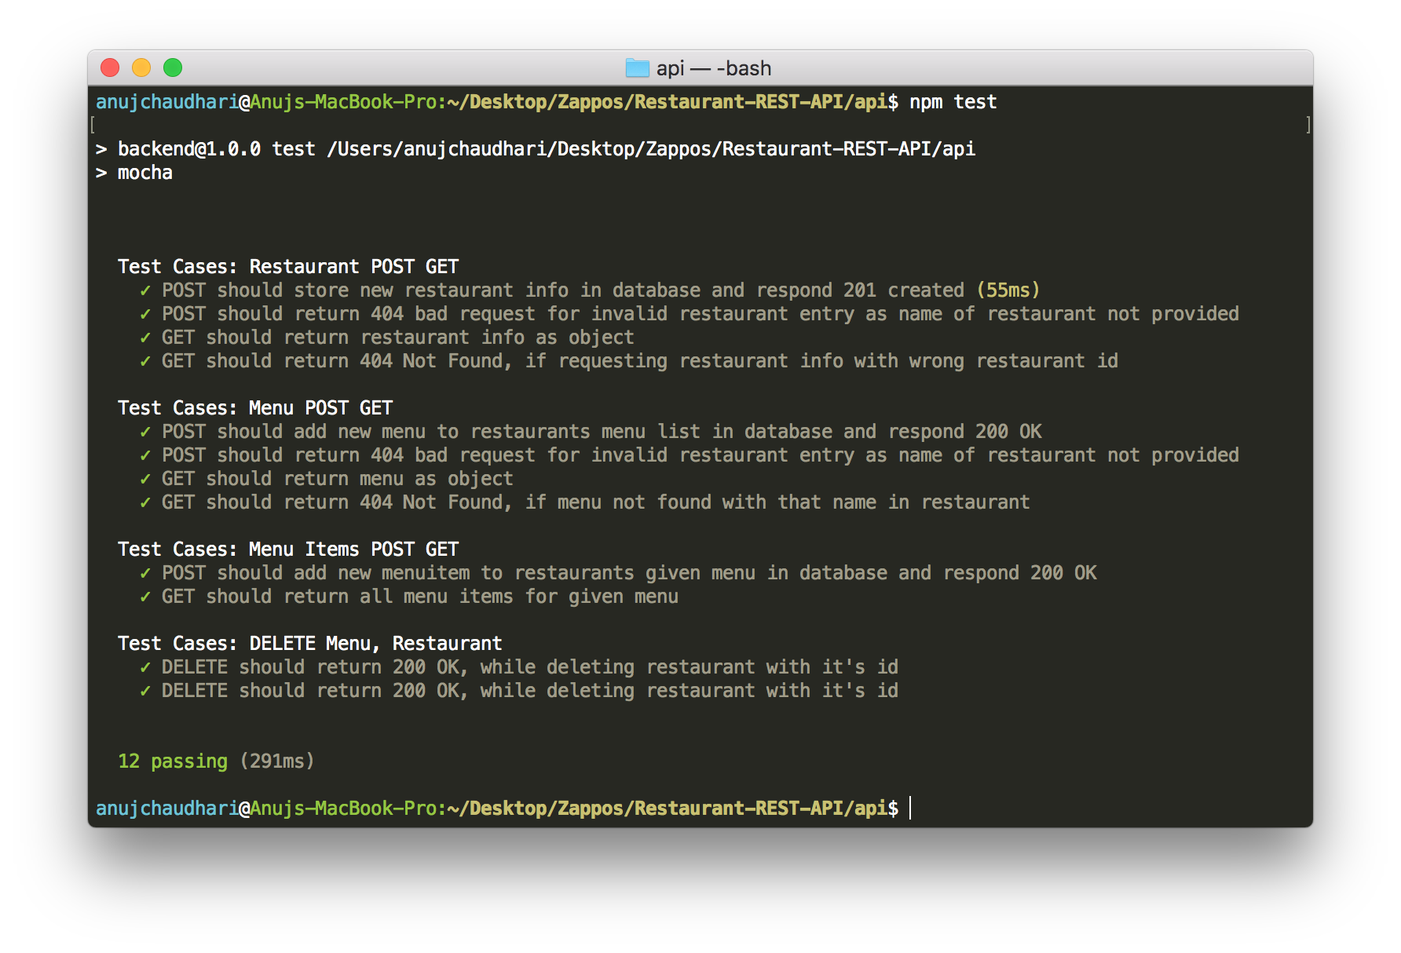
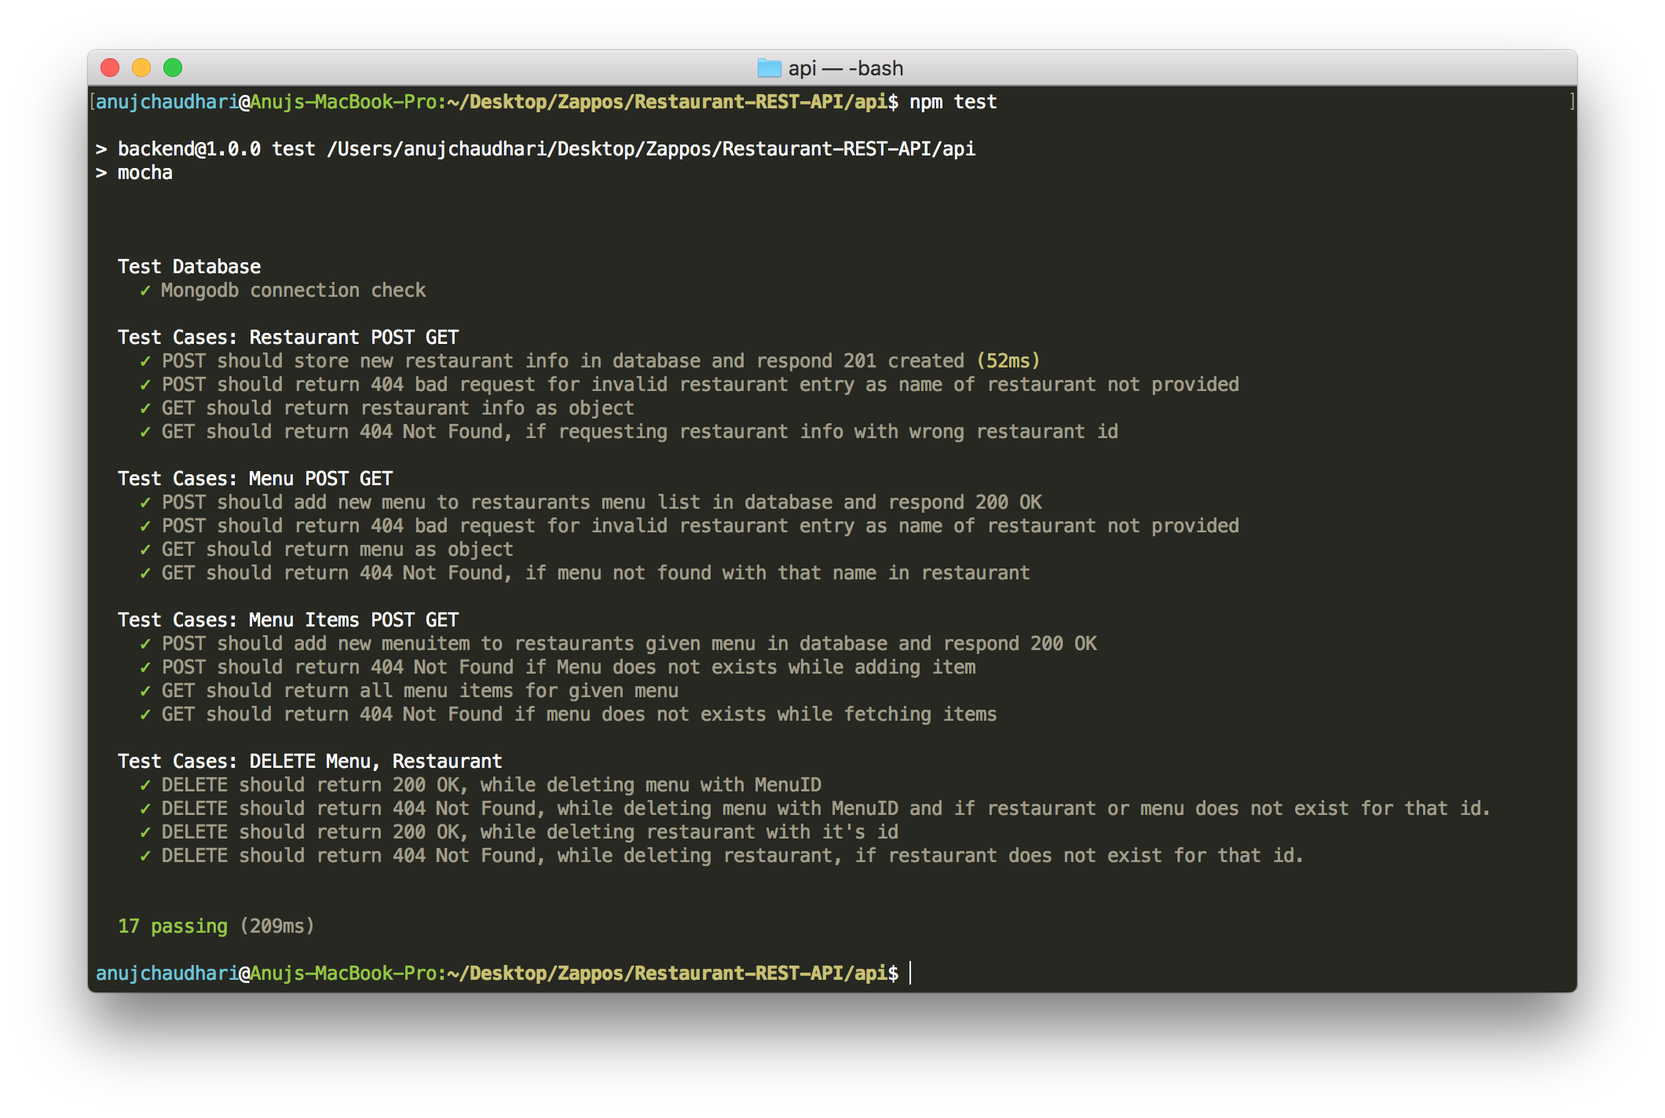
update unit tests

Changed region(s): [[0.0308, 0.0305, 0.9557, 0.9448]]

diff --git a/api/test.js b/api/test.js
@@ -1,13 +1,36 @@
 var supertest = require("supertest");
 var should = require("should");
+var mongoose = require('mongoose');
 
-// This agent refers to PORT where program is runninng.
 
 var server = supertest.agent("http://localhost:3000/zappos/api/v1");
 
 var restaurant_id = "";
 
 
+describe('Test Database', function() {
+  //Before starting the test, create a database connection
+  //Once a connection is established invoke done()
+  it("Mongodb connection check",function (done) {
+    mongoose.connect('mongodb://localhost/anuj_restaurant_api');
+    const db = mongoose.connection;
+    db.on('error', console.error.bind(console, 'connection error'));
+    db.once('open', function() {
+      done();
+    });
+  });
+
+  //drop database and close connection
+  after(function(done){
+    mongoose.connection.db.dropDatabase(function(){
+      mongoose.connection.close(done);
+    });
+  });
+
+});
+
+
+// Test Cases for Restaurant API
 describe("Test Cases: Restaurant POST GET",function(){
 
   it("POST should store new restaurant info in database and respond 201 created",function(done){
@@ -127,7 +150,7 @@ describe("Test Cases: Restaurant POST GET",function(){
 });
 
 
-
+// Test Case for Menu API
 describe("Test Cases: Menu POST GET",function(){
 
     it("POST should add new menu to restaurants menu list in database and respond 200 OK",function(done){
@@ -219,7 +242,7 @@ describe("Test Cases: Menu POST GET",function(){
 
 
 
-
+// Test Case for Menu Item API
 describe("Test Cases: Menu Items POST GET",function(){
 
     it("POST should add new menuitem to restaurants given menu in database and respond 200 OK",function(done){
@@ -241,8 +264,44 @@ describe("Test Cases: Menu Items POST GET",function(){
         done();
       });
     });
+
+    it("POST should return 404 Not Found if Menu does not exists while adding item",function(done){
+  
+      var menu_item = {
+            "item_name": "Coffee Latte",
+            "Description": "coffee with the best flovour of latte",
+            "price"	: 3
+        };
+  
+      server
+      .post("/restaurants/" + restaurant_id + "/menus/abc/items")
+      .send(menu_item)
+      .expect("Content-type",/json/)
+      .expect(404) // THis is HTTP response
+      .end(function(err,res){      
+        res.status.should.equal(404);
+        res.body.should.be.a.Object;
+        done();
+      });
+    });
+
   
     it("GET should return all menu items for given menu",function(done){
+      
+      server
+      .get("/restaurants/" + restaurant_id + "/menus/coffee/items")
+      .expect("Content-type",/json/)
+      .expect(200) // THis is HTTP response
+      .end(function(err,res){
+        res.status.should.equal(200);
+        res.body.should.be.a.Array;
+        done();
+      });
+      
+    });
+
+      
+    it("GET should return 404 Not Found if menu does not exists while fetching items",function(done){
       
       server
       .get("/restaurants/" + restaurant_id + "/menus/coffee/items")
@@ -267,7 +326,7 @@ describe("Test Cases: Menu Items POST GET",function(){
 
 describe("Test Cases: DELETE Menu, Restaurant",function(){
 
-    it("DELETE should return 200 OK, while deleting restaurant with it's id",function(done){
+    it("DELETE should return 200 OK, while deleting menu with MenuID",function(done){
       
         server
         .delete("/restaurants/" + restaurant_id + "/menus/hot-drinks")
@@ -280,6 +339,19 @@ describe("Test Cases: DELETE Menu, Restaurant",function(){
         
       });
 
+      it("DELETE should return 404 Not Found, while deleting menu with MenuID and if restaurant or menu does not exist for that id. ",function(done){
+      
+        server
+        .delete("/restaurants/" + restaurant_id + "/menus/random-text-menu")
+        .expect("Content-type",/json/)
+        .expect(404) // THis is HTTP response
+        .end(function(err,res){
+          res.status.should.equal(404);      
+          done();
+        });
+        
+      });
+
       it("DELETE should return 200 OK, while deleting restaurant with it's id",function(done){        
         server
         .delete("/restaurants/" + restaurant_id)
@@ -287,6 +359,18 @@ describe("Test Cases: DELETE Menu, Restaurant",function(){
         .expect(200) // THis is HTTP response
         .end(function(err,res){
           res.status.should.equal(200);      
+          done();
+        });
+        
+      });
+
+      it("DELETE should return 404 Not Found, while deleting restaurant, if restaurant does not exist for that id. ",function(done){        
+        server
+        .delete("/restaurants/random-restaurant-id")
+        .expect("Content-type",/json/)
+        .expect(404) // THis is HTTP response
+        .end(function(err,res){
+          res.status.should.equal(404);      
           done();
         });
         

diff --git a/README.md b/README.md
@@ -54,6 +54,27 @@ Restaurants
 ```
 
 
+## REST API Endpoints
+
+BaseURL : localhost:3000/zappos/api/v1 
+
+
+| Endpoint                         | HTTP Verb | Functionality                                                               | Example                             | JSON Request | Response Code | JSON Response                                                                                                           |
+|----------------------------------|-----------|-------------------------------------------------------------------------|-------------------------------------|--------------------------------------------------------------------------------------------------------|-------------------------------------------------------------------------------------------------------------------------|------------|
+| /restaurants                                          | GET       | Get list of all the restaurants                                                   | localhost:3000/zappos/api/v1/restaurants                                        |                                                                                                        | 200 | [{"description":"Starbucks is considered the main representative of second wave coffee, initially distinguishing itself from other coffee-serving venues in the US by taste, quality, and customer experience while popularizing darkly roasted coffee","contact_no":"(408) 275-9368","area":"San Jose","cuisines":["cafe"],"menu":[{"menu_items":[{"decription":"","_id":"5a797f026d887752a071a6ae","item_name":"Coffee Latte","price":3},{"decription":"","_id":"5a797f026d887752a071a6ad","item_name":"Caffe Mocha","price":4}],"_id":"5a797f026d887752a071a6ac","menu_type":"Coffee","menu_id":"coffee"},{"menu_items":[{"decription":"","_id":"5a797f026d887752a071a6ab","item_name":"Classic Chai Tea Latte","price":2}],"_id":"5a797f026d887752a071a6aa","menu_type":"Tea","menu_id":"tea"}],"locality_count":0,"timestamp":"Tue Feb 06 2018 01:45:33 GMT-0800 (PST)","_id":"5a797f026d887752a071a6a9","id":"starbucks-san-jose","name":"Starbucks","__v":0}]                                                                       |
+| /restaurants                                          | POST      | Add new restaurant entry in the database. Will return restaurant id as string.    | localhost:3000/zappos/api/v1/restaurants                                        | {"name":"Starbucks","description":"Starbucksisconsideredthemainrepresentativeofsecondwavecoffee,initiallydistinguishingitselffromothercoffee-servingvenuesintheUSbytaste,quality,andcustomerexperiencewhilepopularizingdarklyroastedcoffee","contact_no":"(408)275-9368","area":"SanJose","cuisines":["cafe"],"menu":[{"menu_type":"Coffee","menu_items":[{"item_name":"CoffeeLatte","Description":"coffeewiththebestflovouroflatte","price":3},{"item_name":"CaffeMocha","Description":"coffeewiththebestflovourofmocha","price":4}]},{"menu_type":"Tea","menu_items":[{"item_name":"ClassicChaiTeaLatte","Description":"ClassicChaiTeawiththebestflovouroflatte","price":2}]}]}                              | 201 | {"description":"Starbucks is considered the main representative of second wave coffee, initially distinguishing itself from other coffee-serving venues in the US by taste, quality, and customer experience while popularizing darkly roasted coffee","contact_no":"(408) 275-9368","area":"San Jose","cuisines":["cafe"],"menu":[{"menu_items":[{"decription":"","_id":"5a797fbb6d887752a071a732","item_name":"Coffee Latte","price":3},{"decription":"","_id":"5a797fbb6d887752a071a731","item_name":"Caffe Mocha","price":4}],"_id":"5a797fbb6d887752a071a730","menu_type":"Coffee","menu_id":"coffee"},{"menu_items":[{"decription":"","_id":"5a797fbb6d887752a071a72f","item_name":"Classic Chai Tea Latte","price":2}],"_id":"5a797fbb6d887752a071a72e","menu_type":"Tea","menu_id":"tea"}],"locality_count":22,"timestamp":"Tue Feb 06 2018 01:45:33 GMT-0800 (PST)","_id":"5a797fbb6d887752a071a72d","id":"starbucks-22-san-jose","name":"Starbucks","__v":0}                                                       |
+| /restaurants/:RestaurantID                            | GET       | Get Restaurant information with the generated restaurant ID                       | localhost:3000/zappos/api/v1/restaurants/starbucks-san-jose                     |                                                                                                        | 200 |{"description":"Starbucks is considered the main representative of second wave coffee, initially distinguishing itself from other coffee-serving venues in the US by taste, quality, and customer experience while popularizing darkly roasted coffee","contact_no":"(408) 275-9368","area":"San Jose","cuisines":["cafe"],"menu":[{"menu_items":[{"decription":"","_id":"5a797f026d887752a071a6ae","item_name":"Coffee Latte","price":3},{"decription":"","_id":"5a797f026d887752a071a6ad","item_name":"Caffe Mocha","price":4}],"_id":"5a797f026d887752a071a6ac","menu_type":"Coffee","menu_id":"coffee"},{"menu_items":[{"decription":"","_id":"5a797f026d887752a071a6ab","item_name":"Classic Chai Tea Latte","price":2}],"_id":"5a797f026d887752a071a6aa","menu_type":"Tea","menu_id":"tea"}],"locality_count":0,"timestamp":"Tue Feb 06 2018 01:45:33 GMT-0800 (PST)","_id":"5a797f026d887752a071a6a9","id":"starbucks-san-jose","name":"Starbucks","__v":0}                                 |
+| /restaurants/:RestaurantID                            | DELETE    | Delete Restaurant information with the generated restaurant ID                    | localhost:3000/zappos/api/v1/restaurants/starbucks-san-jose                     |                                                                                                        | 200 ||
+| /restaurants/:RestaurantID/menus                      | POST      | Add new menu to the restaurant with name. Will return menu id as string           | localhost:3000/zappos/api/v1/restaurants/starbucks-san-jose/menus               | {"menu_type":"HotDrinks","menu_items":[{"item_name":"CoffeeLatte","Description":"coffeewiththebestflovouroflatte","price":3},{"item_name":"CaffeMocha","Description":"coffeewiththebestflovourofmocha","price":4}]} | 200 | |
+| /restaurants/:RestaurantID/menus                      | GET       | Get all menus of a restaurant as array                                            | localhost:3000/zappos/api/v1/restaurants/starbucks-san-jose/menus               |  | 200 | [{"menu_items":[{"decription":"","_id":"5a797f026d887752a071a6ae","item_name":"Coffee Latte","price":3},{"decription":"","_id":"5a797f026d887752a071a6ad","item_name":"Caffe Mocha","price":4}],"_id":"5a797f026d887752a071a6ac","menu_type":"Coffee","menu_id":"coffee"},{"menu_items":[{"decription":"","_id":"5a797f026d887752a071a6ab","item_name":"Classic Chai Tea Latte","price":2}],"_id":"5a797f026d887752a071a6aa","menu_type":"Tea","menu_id":"tea"},{"menu_items":[{"decription":"","_id":"5a79eed06d887752a071b2ed","item_name":"Coffee Latte","price":3},{"decription":"","_id":"5a79eed06d887752a071b2ec","item_name":"Caffe Mocha","price":4}],"_id":"5a79eed06d887752a071b2eb","menu_type":"Hot Drinks","menu_id":"hot-drinks"}]|
+| /restaurants/:RestaurantID/menus/:MenuID              | GET       | Get single menu of a restaurant with menuid.                                      | localhost:3000/zappos/api/v1/restaurants/starbucks-san-jose/menus/coffee        |                                                                                                        | 200 |{"menu_items":[{"decription":"","_id":"5a797b6d6d887752a071a69e","item_name":"Coffee Latte","price":3},{"decription":"","_id":"5a797b6d6d887752a071a69d","item_name":"Caffe Mocha","price":4}],"_id":"5a797b6d6d887752a071a69c","menu_type":"Coffee","menu_id":"coffee"} |
+| /restaurants/:RestaurantID/menus/:MenuID              | DELETE    | Delete single menu of a restaurant with menuid.                                   | localhost:3000/zappos/api/v1/restaurants/starbucks-san-jose/menus/coffee        |                                                                                                        | 200 ||
+| /restaurants/:RestaurantID/menus/:MenuID/items        | POST      | Add new menu item to the menu. Will return menuitem id.                           | localhost:3000/zappos/api/v1/restaurants/starbucks-san-jose/menus/coffee/items  | {"item_name":"Hot Chocolate","Description":"hot milk drink with chocolate cyrup","price":3}            | 200 ||
+| /restaurants/:RestaurantID/menus/:MenuID/items        | GET       | Get all the menu items of the menu as array                                       | localhost:3000/zappos/api/v1/restaurants/starbucks-san-jose/menus/coffee/items  | | 200 | [{"decription":"","_id":"5a797f026d887752a071a6ae","item_name":"CoffeeLatte","price":3},{"decription":"","_id":"5a797f026d887752a071a6ad","item_name":"CaffeMocha","price":4},{"decription":"","_id":"5a79f30a6d887752a071b2ee","item_name":"HotChocolate","price":3}] |
+| /restaurants/:RestaurantID/menus/:MenuID/items/:ItemID| GET       | Get menuitem with menuid                                                          | localhost:3000/zappos/api/v1/restaurants/starbucks-san-jose/menus/coffee/items/5a797f026d887752a071a6ae | | 200 | {"decription":"","_id":"5a797f026d887752a071a6ae","item_name":"CoffeeLatte","price":3} |
+| /restaurants/:RestaurantID/menus/:MenuID/items/:ItemID| DELETE    | Delete menuitem with menuid                                                       | localhost:3000/zappos/api/v1/restaurants/starbucks-san-jose/menus/coffee/items/5a797f026d887752a071a6ae | | 200 | |
+
+
 ## REST API Requests  ##
 
 * Here is the sharable link for POSTMAN to use all of this request. Just Import Request from the given link to POSTMAN.
@@ -187,23 +208,3 @@ Restaurants
 
 ![Alt text](/screenshots/unit_tests.png?raw=true "Redis hit")
 
-
-## REST API Endpoints
-
-BaseURL : localhost:3000/zappos/api/v1 
-
-
-| Endpoint                         | HTTP Verb | Functionality                                                               | Example                             | JSON Request | Response Code | JSON Response                                                                                                           |
-|----------------------------------|-----------|-------------------------------------------------------------------------|-------------------------------------|--------------------------------------------------------------------------------------------------------|-------------------------------------------------------------------------------------------------------------------------|------------|
-| /restaurants                                          | GET       | Get list of all the restaurants                                                   | localhost:3000/zappos/api/v1/restaurants                                        |                                                                                                        | 200 | [{"description":"Starbucks is considered the main representative of second wave coffee, initially distinguishing itself from other coffee-serving venues in the US by taste, quality, and customer experience while popularizing darkly roasted coffee","contact_no":"(408) 275-9368","area":"San Jose","cuisines":["cafe"],"menu":[{"menu_items":[{"decription":"","_id":"5a797f026d887752a071a6ae","item_name":"Coffee Latte","price":3},{"decription":"","_id":"5a797f026d887752a071a6ad","item_name":"Caffe Mocha","price":4}],"_id":"5a797f026d887752a071a6ac","menu_type":"Coffee","menu_id":"coffee"},{"menu_items":[{"decription":"","_id":"5a797f026d887752a071a6ab","item_name":"Classic Chai Tea Latte","price":2}],"_id":"5a797f026d887752a071a6aa","menu_type":"Tea","menu_id":"tea"}],"locality_count":0,"timestamp":"Tue Feb 06 2018 01:45:33 GMT-0800 (PST)","_id":"5a797f026d887752a071a6a9","id":"starbucks-san-jose","name":"Starbucks","__v":0}]                                                                       |
-| /restaurants                                          | POST      | Add new restaurant entry in the database. Will return restaurant id as string.    | localhost:3000/zappos/api/v1/restaurants                                        | {"name":"Starbucks","description":"Starbucksisconsideredthemainrepresentativeofsecondwavecoffee,initiallydistinguishingitselffromothercoffee-servingvenuesintheUSbytaste,quality,andcustomerexperiencewhilepopularizingdarklyroastedcoffee","contact_no":"(408)275-9368","area":"SanJose","cuisines":["cafe"],"menu":[{"menu_type":"Coffee","menu_items":[{"item_name":"CoffeeLatte","Description":"coffeewiththebestflovouroflatte","price":3},{"item_name":"CaffeMocha","Description":"coffeewiththebestflovourofmocha","price":4}]},{"menu_type":"Tea","menu_items":[{"item_name":"ClassicChaiTeaLatte","Description":"ClassicChaiTeawiththebestflovouroflatte","price":2}]}]}                              | 200 | {"description":"Starbucks is considered the main representative of second wave coffee, initially distinguishing itself from other coffee-serving venues in the US by taste, quality, and customer experience while popularizing darkly roasted coffee","contact_no":"(408) 275-9368","area":"San Jose","cuisines":["cafe"],"menu":[{"menu_items":[{"decription":"","_id":"5a797fbb6d887752a071a732","item_name":"Coffee Latte","price":3},{"decription":"","_id":"5a797fbb6d887752a071a731","item_name":"Caffe Mocha","price":4}],"_id":"5a797fbb6d887752a071a730","menu_type":"Coffee","menu_id":"coffee"},{"menu_items":[{"decription":"","_id":"5a797fbb6d887752a071a72f","item_name":"Classic Chai Tea Latte","price":2}],"_id":"5a797fbb6d887752a071a72e","menu_type":"Tea","menu_id":"tea"}],"locality_count":22,"timestamp":"Tue Feb 06 2018 01:45:33 GMT-0800 (PST)","_id":"5a797fbb6d887752a071a72d","id":"starbucks-22-san-jose","name":"Starbucks","__v":0}                                                       |
-| /restaurants/:RestaurantID                            | GET       | Get Restaurant information with the generated restaurant ID                       | localhost:3000/zappos/api/v1/restaurants/starbucks-san-jose                     |                                                                                                        | 200 |{"description":"Starbucks is considered the main representative of second wave coffee, initially distinguishing itself from other coffee-serving venues in the US by taste, quality, and customer experience while popularizing darkly roasted coffee","contact_no":"(408) 275-9368","area":"San Jose","cuisines":["cafe"],"menu":[{"menu_items":[{"decription":"","_id":"5a797f026d887752a071a6ae","item_name":"Coffee Latte","price":3},{"decription":"","_id":"5a797f026d887752a071a6ad","item_name":"Caffe Mocha","price":4}],"_id":"5a797f026d887752a071a6ac","menu_type":"Coffee","menu_id":"coffee"},{"menu_items":[{"decription":"","_id":"5a797f026d887752a071a6ab","item_name":"Classic Chai Tea Latte","price":2}],"_id":"5a797f026d887752a071a6aa","menu_type":"Tea","menu_id":"tea"}],"locality_count":0,"timestamp":"Tue Feb 06 2018 01:45:33 GMT-0800 (PST)","_id":"5a797f026d887752a071a6a9","id":"starbucks-san-jose","name":"Starbucks","__v":0}                                 |
-| /restaurants/:RestaurantID                            | DELETE    | Delete Restaurant information with the generated restaurant ID                    | localhost:3000/zappos/api/v1/restaurants/starbucks-san-jose                     |                                                                                                        | 200 ||
-| /restaurants/:RestaurantID/menus                      | POST      | Add new menu to the restaurant with name. Will return menu id as string           | localhost:3000/zappos/api/v1/restaurants/starbucks-san-jose/menus               | {"menu_type":"HotDrinks","menu_items":[{"item_name":"CoffeeLatte","Description":"coffeewiththebestflovouroflatte","price":3},{"item_name":"CaffeMocha","Description":"coffeewiththebestflovourofmocha","price":4}]} | 200 | |
-| /restaurants/:RestaurantID/menus                      | GET       | Get all menus of a restaurant as array                                            | localhost:3000/zappos/api/v1/restaurants/starbucks-san-jose/menus               |  | 200 | [{"menu_items":[{"decription":"","_id":"5a797f026d887752a071a6ae","item_name":"Coffee Latte","price":3},{"decription":"","_id":"5a797f026d887752a071a6ad","item_name":"Caffe Mocha","price":4}],"_id":"5a797f026d887752a071a6ac","menu_type":"Coffee","menu_id":"coffee"},{"menu_items":[{"decription":"","_id":"5a797f026d887752a071a6ab","item_name":"Classic Chai Tea Latte","price":2}],"_id":"5a797f026d887752a071a6aa","menu_type":"Tea","menu_id":"tea"},{"menu_items":[{"decription":"","_id":"5a79eed06d887752a071b2ed","item_name":"Coffee Latte","price":3},{"decription":"","_id":"5a79eed06d887752a071b2ec","item_name":"Caffe Mocha","price":4}],"_id":"5a79eed06d887752a071b2eb","menu_type":"Hot Drinks","menu_id":"hot-drinks"}]|
-| /restaurants/:RestaurantID/menus/:MenuID              | GET       | Get single menu of a restaurant with menuid.                                      | localhost:3000/zappos/api/v1/restaurants/starbucks-san-jose/menus/coffee        |                                                                                                        | 200 |{"menu_items":[{"decription":"","_id":"5a797b6d6d887752a071a69e","item_name":"Coffee Latte","price":3},{"decription":"","_id":"5a797b6d6d887752a071a69d","item_name":"Caffe Mocha","price":4}],"_id":"5a797b6d6d887752a071a69c","menu_type":"Coffee","menu_id":"coffee"} |
-| /restaurants/:RestaurantID/menus/:MenuID              | DELETE    | Delete single menu of a restaurant with menuid.                                   | localhost:3000/zappos/api/v1/restaurants/starbucks-san-jose/menus/coffee        |                                                                                                        | 200 ||
-| /restaurants/:RestaurantID/menus/:MenuID/items        | POST      | Add new menu item to the menu. Will return menuitem id.                           | localhost:3000/zappos/api/v1/restaurants/starbucks-san-jose/menus/coffee/items  | {"item_name":"Hot Chocolate","Description":"hot milk drink with chocolate cyrup","price":3}            | 200 ||
-| /restaurants/:RestaurantID/menus/:MenuID/items        | GET       | Get all the menu items of the menu as array                                       | localhost:3000/zappos/api/v1/restaurants/starbucks-san-jose/menus/coffee/items  | | 200 | [{"decription":"","_id":"5a797f026d887752a071a6ae","item_name":"CoffeeLatte","price":3},{"decription":"","_id":"5a797f026d887752a071a6ad","item_name":"CaffeMocha","price":4},{"decription":"","_id":"5a79f30a6d887752a071b2ee","item_name":"HotChocolate","price":3}] |
-| /restaurants/:RestaurantID/menus/:MenuID/items/:ItemID| GET       | Get menuitem with menuid                                                          | localhost:3000/zappos/api/v1/restaurants/starbucks-san-jose/menus/coffee/items/5a797f026d887752a071a6ae | | 200 | {"decription":"","_id":"5a797f026d887752a071a6ae","item_name":"CoffeeLatte","price":3} |
-| /restaurants/:RestaurantID/menus/:MenuID/items/:ItemID| DELETE    | Delete menuitem with menuid                                                       | localhost:3000/zappos/api/v1/restaurants/starbucks-san-jose/menus/coffee/items/5a797f026d887752a071a6ae | | 200 | |
